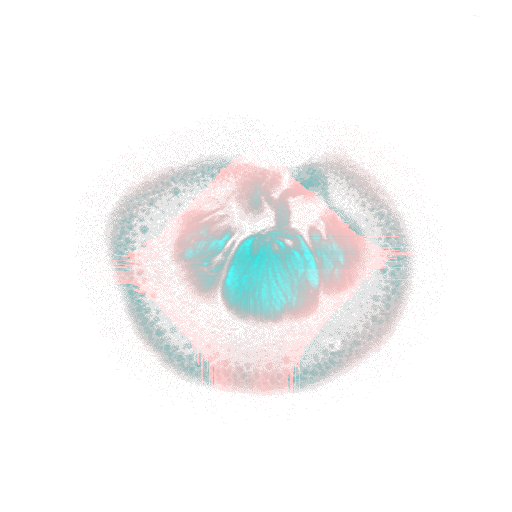
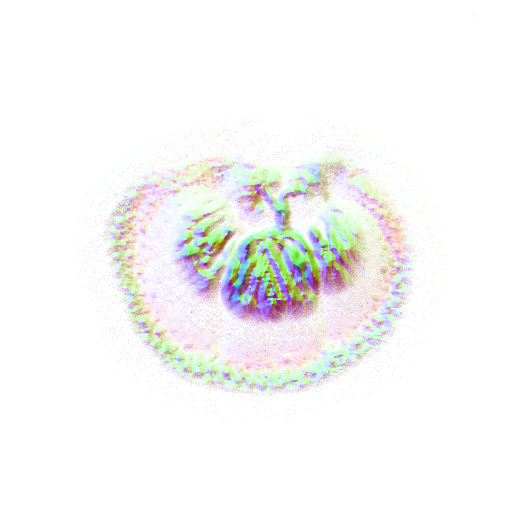
Back to front fade

Changed region(s): [[0.1875, 0.2812, 0.8125, 0.7812]]

diff --git a/browser/ctscan/viewer.js b/browser/ctscan/viewer.js
@@ -8,9 +8,10 @@ var MriRender_Create = function (scene) {
     const textureLoader = new THREE.TextureLoader();
 
     const vertexShader = `
-        varying vec2 vUv;
+        varying vec3 vUVW;
         void main() {
-            vUv = uv;
+            vec4 objectInWorld = modelMatrix * vec4(position, 1.0);
+            vUVW = vec3( uv, objectInWorld.z / -48.14159 );
             gl_Position = projectionMatrix * modelViewMatrix * vec4(position, 1.0);
         }
     `;
@@ -18,17 +19,31 @@ var MriRender_Create = function (scene) {
     const fragmentShader = `
         uniform sampler2D texture1;
         uniform float time;
-        varying vec2 vUv;
+        varying vec3 vUVW;
         void main() {
-            vec4 texColor = texture2D(texture1, vUv);
+            vec4 texColor = texture2D(texture1, vUVW.xy);
+
+            if (texColor.a < 0.05) discard;
             
-            float ripple_axis = -vUv.y; // - texColor.r; // up-down:  -vUv.y
-            float ripple = cos( ( time * 2.0 ) + (ripple_axis * 3.14159 * 1.0 ) );
-            float highlight = pow( abs( ripple ), 64.0 );
-            float alpha = ( texColor.g ) * mix( 0.25, 1.0, highlight );
-            float shade = texColor.g;
-            vec3 orange = vec3(1.0, 0.65, 0.0);
-            gl_FragColor = vec4(orange.r * shade, orange.g * shade, mix(orange.b * shade, 1.0, highlight), alpha);
+            vec3 one = vec3(1.0, 1.0, 1.0);
+            vec3 normal = ( texColor.rgb - ( one * 0.5 ) ) * 2.0;
+            normal = normalize(normal);
+
+            float ripple_axis = vUVW.z; // -vUv.y; // - texColor.g; // -vUv.y; // - texColor.r; // up-down:  -vUv.y
+            float ripple = cos( ( time * 1.0 ) + (ripple_axis * 3.14159 * 1.0 ) );
+            vec3 ripple_dir = normalize( vec3(cos(ripple), sin(ripple), 1.0) );
+
+            float highlight = pow( abs( ripple ), 16.0 );
+            //float alpha = ( texColor.a ) * mix( 0.5, 1.0, highlight );
+            float alpha = pow( texColor.a, mix( 3.0, 1.0, highlight ) ) * mix( 0.125, 1.0, highlight );
+            //float alpha = texColor.a; // pow( texColor.a, mix( 3.0, 1.0, highlight ) ) * mix( 0.25, 1.0, highlight );
+            float shade = alpha; //texColor.a;
+
+            vec3 orange = vec3(1.0, 0.61, 0.0);
+            vec3 lit = orange * shade;
+            // lit.b = mix( lit.b, 1.0, highlight );
+            
+            gl_FragColor = vec4(lit.r, lit.g, lit.b, alpha);
         }
     `;
 
@@ -44,7 +59,8 @@ var MriRender_Create = function (scene) {
             const material = new THREE.ShaderMaterial({
                 uniforms: {
                     texture1: { value: texture },
-                    time: { value: 0.0 }
+                    time: { value: 0.0 },
+                    // cameraPosition: { value: new THREE.Vector3() }
                 },
                 vertexShader: vertexShader,
                 fragmentShader: fragmentShader,
@@ -78,6 +94,7 @@ var MriRender_Update = function(infos) {
         info.time_previous = time;
         if (info.material) {
             info.material.uniforms.time.value = info.time_sum;
+            // info.material.uniforms.cameraPosition.value.copy(camera.position);
         }
     }
 }

diff --git a/py/examples/ndscene_3dvolume.py b/py/examples/ndscene_3dvolume.py
@@ -2,12 +2,16 @@
 
 import imageio
 import numpy
+from scipy.ndimage import uniform_filter
 
 def main_processor():
     path_src = "browser/ctscan/orange_615.gif"
     
     original = imageio.v3.imread(path_src)
     print(original.shape) # (48, 615, 615, 3)
+
+    loop_frame_count = original.shape[0]
+    original = original[0:loop_frame_count//2, :, :, :]
 
     square_size = 512
     crop = center_crop(original, square_size)
@@ -28,6 +32,26 @@ def flood_fill_out(volume):
     
     # extract opacity channel and prepare fills array
     opacities = volume[:,:,:,1]
+
+    unit_opacity = opacities.astype(float) / 255.0
+    unit_opacity = uniform_filter(unit_opacity, size=7)
+    normals = numpy.gradient(unit_opacity)
+    normals = [numpy.expand_dims(n,axis=-1) for n in normals]
+    normals[0] = normals[0] / (float(volume.shape[1]) / float(volume.shape[0]))
+    normal_dirs = numpy.concat( normals, axis=-1 )
+    normal_len = numpy.linalg.norm(normal_dirs, axis=-1, keepdims=True)
+    normal_dirs = normal_dirs / normal_len
+    normal_dirs = ( ( normal_dirs * 0.5) + 0.5 )
+    normal_dirs = normal_dirs * 255.0
+
+    alphas = numpy.expand_dims(opacities, axis=-1)
+    volume = numpy.repeat( alphas, axis=-1, repeats=4)
+    volume[:,:,:,0] = normal_dirs[:,:,:,0]
+    volume[:,:,:,1] = normal_dirs[:,:,:,1]
+    volume[:,:,:,2] = normal_dirs[:,:,:,2]
+    volume[:,:,:,3] = alphas.squeeze()
+    return volume
+
     # we'll accumulate a running total in fills; start with zeros
     fills = numpy.zeros_like(opacities, dtype=numpy.int32)
     # compute the starting (center) voxel
